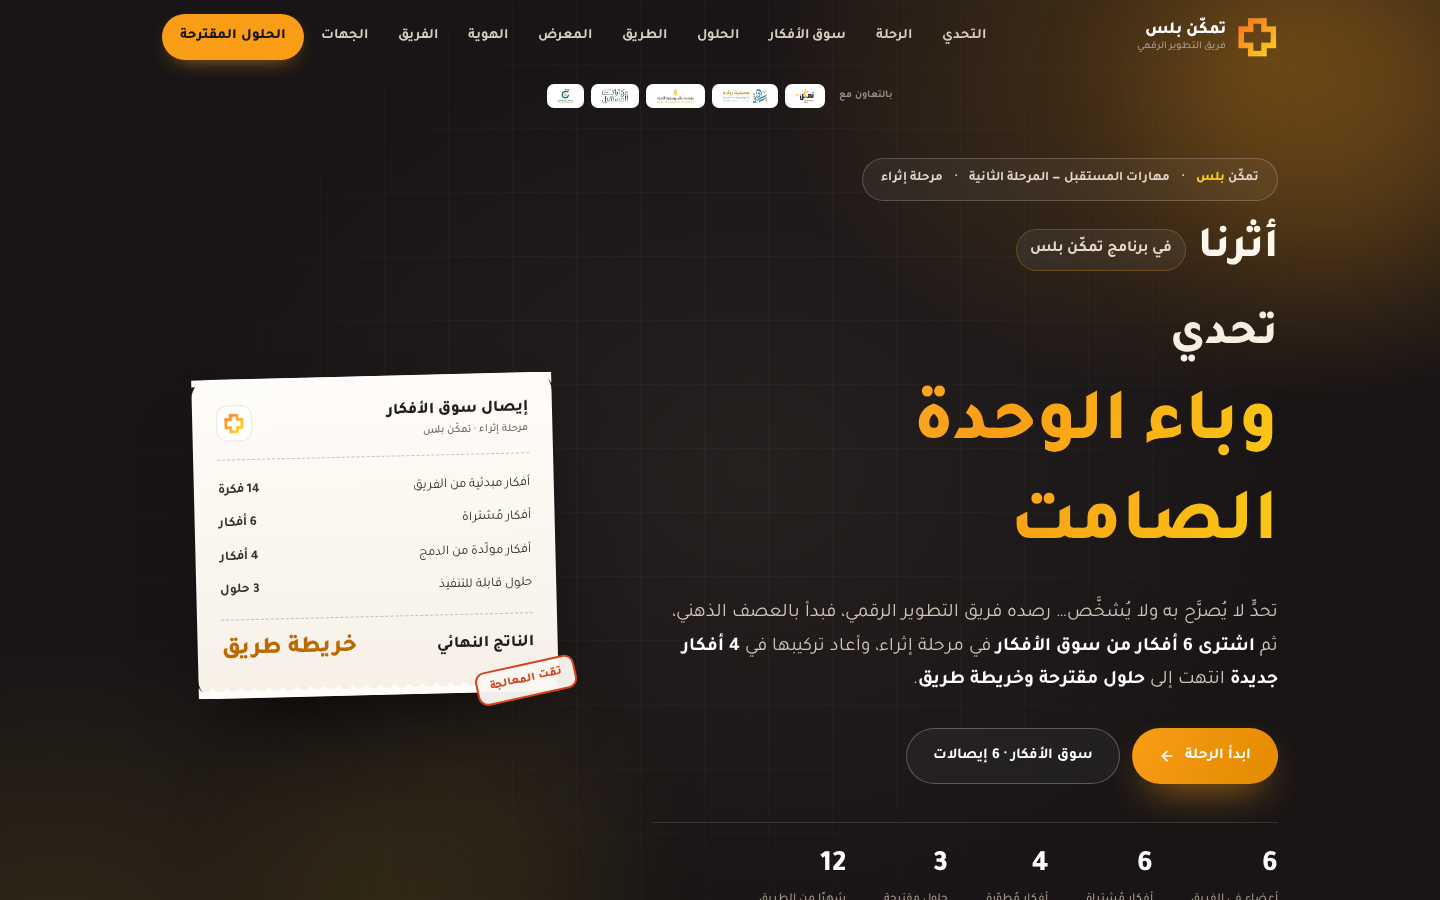
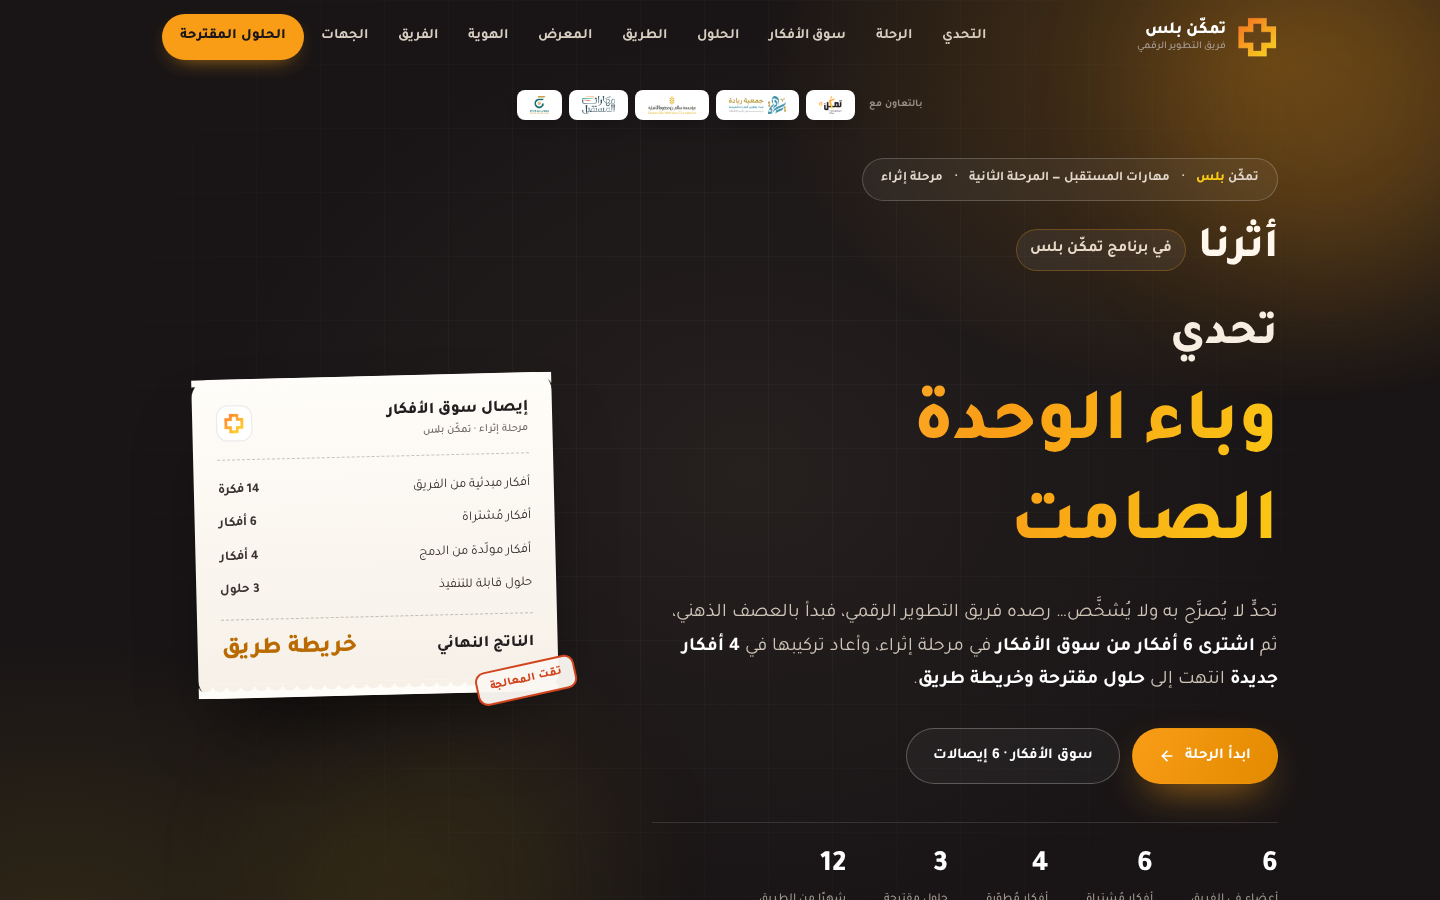
تكبير شعارات الشريط العلوي وتوسيطها (30px سطح المكتب / 24px جوال)

Changed region(s): [[0.3438, 0.0933, 0.625, 0.1556]]

diff --git a/index.html b/index.html
@@ -497,10 +497,11 @@ header.nav.scrolled{
 
 
 /* ===== شريط الشعارات (أعلى/أسفل) ===== */
-.lstrip-top{position:absolute;top:84px;inset-inline:0;z-index:4;display:flex;align-items:center;gap:14px;justify-content:center;flex-wrap:wrap;padding:0 18px}
+.lstrip-top{position:absolute;top:82px;inset-inline:0;z-index:4;display:flex;align-items:center;gap:14px;justify-content:center;flex-wrap:wrap;padding:8px 18px}
 .lstrip-lbl{font-size:.64rem;font-weight:700;color:#9A8D82;letter-spacing:.05em;white-space:nowrap}
 .lstrip-row{display:flex;align-items:center;gap:7px;flex-wrap:wrap;justify-content:center}
-.lstrip-row img{display:block;height:24px;width:auto;background:#fff;border-radius:7px;padding:5px 11px;box-shadow:0 8px 20px -12px rgba(0,0,0,.95)}
+.lstrip-row img{display:block;height:30px;width:auto;background:#fff;border-radius:8px;padding:6px 13px;box-shadow:0 8px 20px -12px rgba(0,0,0,.95)}
+.lstrip-top .lstrip-row img{height:30px;padding:6px 13px;border-radius:8px}
 .lstrip-foot{border-top:1px solid rgba(255,255,255,.09);padding-top:clamp(22px,3vw,30px);margin-top:clamp(24px,3.4vw,34px)}
 .lstrip-foot .lstrip-lbl{display:block;text-align:center;margin-bottom:14px;color:#A2958A;font-size:.7rem}
 .lstrip-foot .lstrip-row{gap:10px}
@@ -509,11 +510,11 @@ header.nav.scrolled{
   .lstrip-foot .lstrip-row img{height:32px;padding:7px 13px;border-radius:9px}
 }
 @media (max-width:640px){
-  .lstrip-top{top:74px;gap:8px;justify-content:flex-start;flex-wrap:nowrap;overflow-x:auto;padding-bottom:4px;-webkit-overflow-scrolling:touch;scrollbar-width:none}
+  .lstrip-top{top:74px;gap:8px;justify-content:center;flex-wrap:nowrap;overflow-x:auto;padding:8px 10px;-webkit-overflow-scrolling:touch;scrollbar-width:none}
   .lstrip-top::-webkit-scrollbar{display:none}
   .lstrip-top .lstrip-lbl{display:none}
   .lstrip-top .lstrip-row{flex-wrap:nowrap;gap:6px}
-  .lstrip-top .lstrip-row img{height:19px;padding:4px 8px;border-radius:6px}
+  .lstrip-top .lstrip-row img{height:24px;padding:5px 8px;border-radius:7px}
   .lstrip-foot .lstrip-row{gap:7px}
   .lstrip-foot .lstrip-row img{height:28px;padding:6px 11px}
 }
@@ -671,7 +672,7 @@ footer{background:#141011;color:#9A8F86;padding:clamp(40px,6vw,64px) 0 30px;font
   .thumbs{grid-template-columns:repeat(4,1fr)}
 }
 @media (max-width:640px){
-  .hero{padding:104px 0 60px;min-height:auto}
+  .hero{padding:116px 0 60px;min-height:auto}
   .hero-brand{display:flex;align-items:center;gap:12px;flex-wrap:wrap;margin-bottom:14px;position:relative}
 .hero-brand .hb-name{font-size:clamp(1.9rem,3.6vw,2.75rem);font-weight:800;color:#FFF7EC;letter-spacing:-.02em;line-height:1.05}
 .hero-brand .hb-sub{font-size:clamp(.82rem,1.3vw,.98rem);font-weight:700;color:#E7D9C6;background:rgba(255,255,255,.06);border:1px solid rgba(249,157,22,.28);padding:6px 13px;border-radius:100px}
